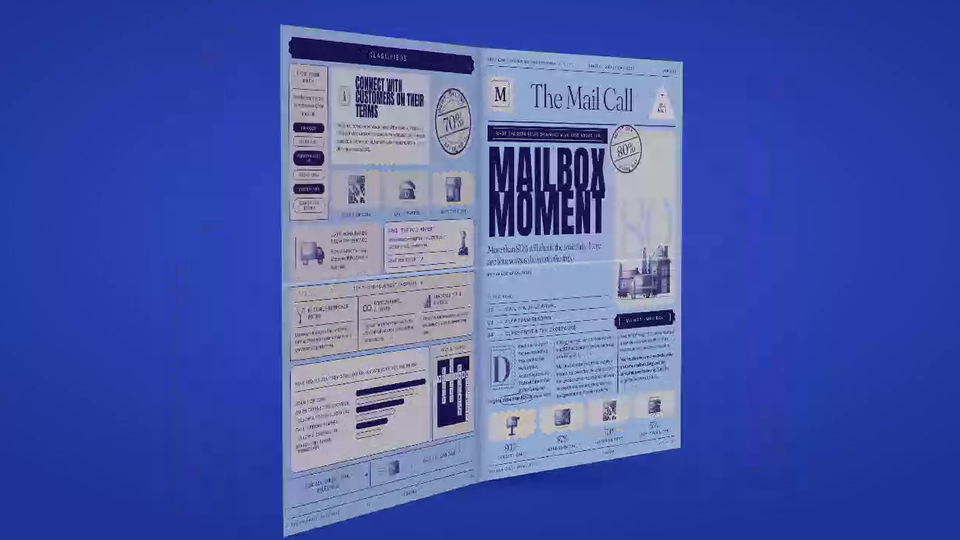
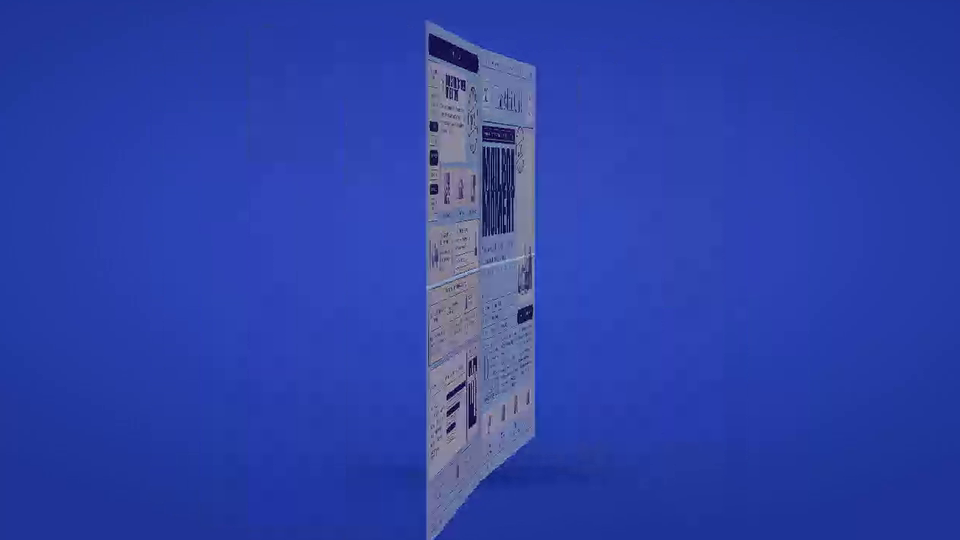
Lob Mail Call: tighter copy on pages 3 and 4
Page 3: the top ticket reads DIGITAL FATIGUE instead of repeating the
KEEP READING headline, and the paragraph beside the 33% ticket is a
line shorter. Page 4: "Connect with customers / on their terms" sits
on two lines. Clip re-recorded.

Claude-Session: https://claude.ai/code/session_016rpguc5B5SYFcQkza5DeAg

diff --git a/lob-mail-call/index.html b/lob-mail-call/index.html
@@ -476,7 +476,7 @@ ${foot(2,'Page two')}`,
 
 /* 3 · inside right */
 ()=>`
-<div class="tkt"><span class="tc" style="font-size:15px;letter-spacing:.3em">Keep Them Reading</span></div>
+<div class="tkt"><span class="tc" style="font-size:15px;letter-spacing:.3em">Digital Fatigue</span></div>
 <div class="sech">${num(2)}<div style="display:flex;align-items:flex-end;gap:16px;white-space:nowrap"><span class="sf" style="font-size:30px;line-height:1.02;padding-bottom:3px">Give people<br>a reason to</span><span class="an" style="font-size:84px;line-height:.86">Keep reading</span></div></div>
 <div style="margin:0 -26px;display:flex;flex-direction:column"><div style="flex:1;position:relative;min-height:176px"><div style="position:absolute;inset:0">${routeMap()}</div><div class="tc" style="position:absolute;left:26px;top:12px;font-size:9px;color:var(--card);letter-spacing:.22em">One piece of mail · three stops</div></div><div class="band c3" style="padding:0 26px;margin-top:-40px;position:relative">${dtk(envelopeChar(),'27%','say mail stands out<br>from digital ads',52,1)}${dtk(icon('eye'),'35%','more likely to<br>remember mail',52,1)}${dtk(stackChar(),'54%','toss mail that<br>looks like a scam',52,1)}</div></div>
 <div class="tx cols2"><p>Today's consumers are bombarded with hundreds, even thousands, of digital messages a day. As digital fatigue grows, the tactile quality of direct mail becomes even more impactful.</p><p>${hi('45%')} of people are turned off by mail with no clear value, and nearly half are tired of pushy language and manufactured deadlines.</p></div>
@@ -487,7 +487,7 @@ ${trys('Try this',[
 ${sec(3,'Design for more than an immediate response')}
 <div style="display:grid;grid-template-columns:330px minmax(0,1fr);gap:var(--gc);align-items:center">
   ${dtk(pocketWatch(),'33%','value mail they can<br>return to later',76)}
-  <div class="tx"><p>Useful mail is more likely to be read and held on to. Give yours a longer life by including information worth keeping: product comparisons, deadlines, pricing, checklists, special offers or discount codes turn mail into a resource people can return to when they're ready.</p></div>
+  <div class="tx"><p>Useful mail is more likely to be read and kept. Give yours a longer life with information worth keeping: comparisons, deadlines, pricing, checklists, offers or discount codes turn mail into a resource people come back to.</p></div>
 </div>
 ${trys('Try this',[
 ['mark','Add staying power','Value that works now and later: reference guides, product details, incentives.'],
@@ -505,7 +505,7 @@ ${foot(3,'Page three')}`,
     ${['QR code','Store visit','Personalized URL','Phone call','General URL','Search the brand'].map((t,i)=>`<span class="pill ${i%2?'':'f'}">${t}</span>`).join('')}
   </div>
   <div class="perf" style="grid-column:span 2;padding:16px 18px 14px">
-    <div style="display:flex;gap:12px;align-items:center">${num(4)}<div class="an" style="font-size:33px;line-height:.9">Connect with customers on their terms</div></div>
+    <div style="display:flex;gap:12px;align-items:center"><div style="width:46px;height:46px;flex:none;display:grid">${num(4).replace('class="num"','class="num" style="width:46px;height:46px"')}</div><div class="an c4h" style="font-size:28px;line-height:.92;white-space:nowrap">Connect with customers<br>on their terms</div></div>
     <div class="tx s" style="margin-top:9px"><p>Direct mail thrives when you go beyond the mailbox. There's no single path from awareness to action to attribution: some people research the brand online, some head to the store, others scan a QR code or visit a PURL.</p></div>
   </div>
   <div style="display:grid;place-items:center">${rubber('WENT ONLINE','70%','AFTER MAIL',-12,'Stamp: 70 percent took an online action after receiving direct mail')}</div>
